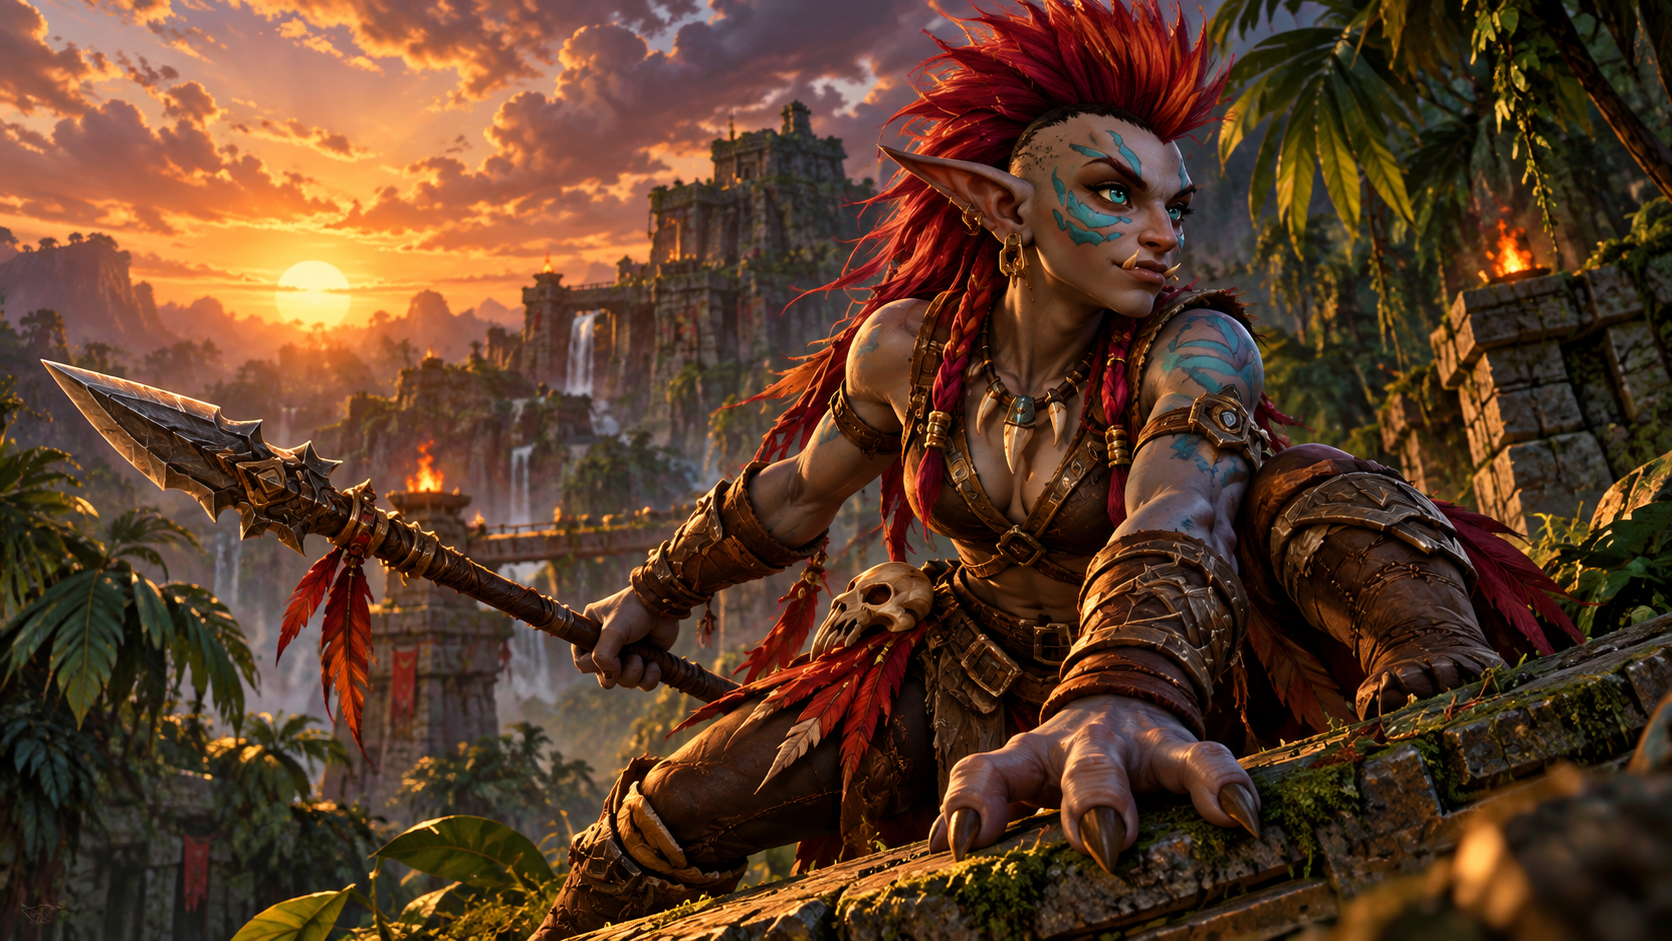
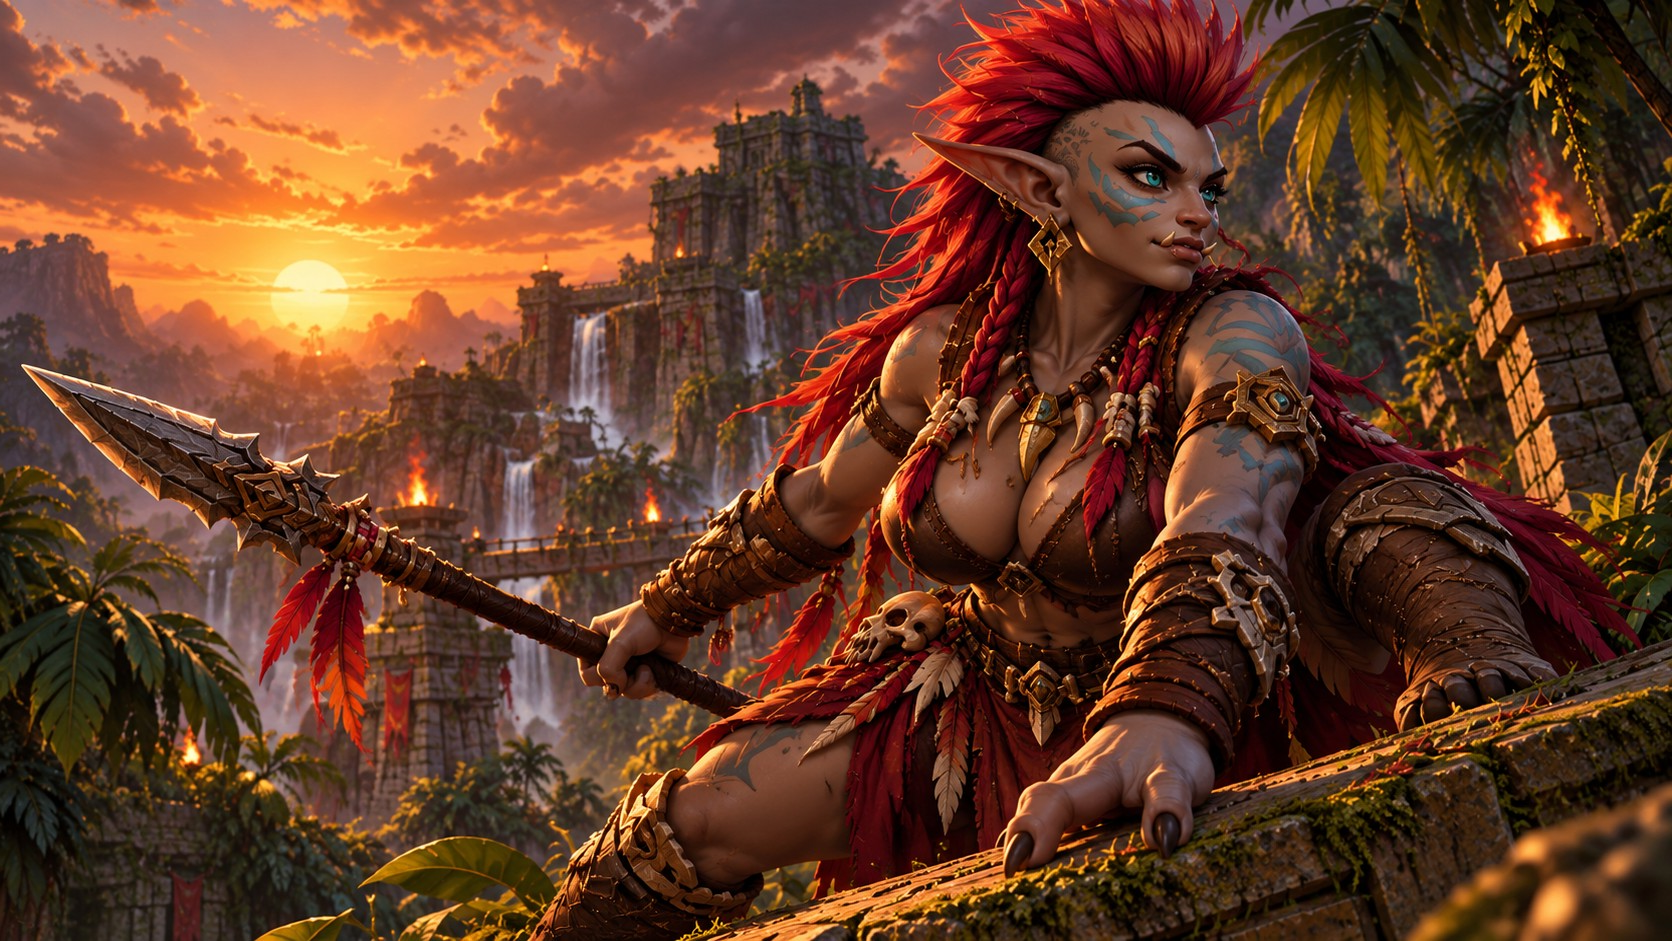
Tezanji Images Rework

diff --git a/STATUS.md b/STATUS.md
@@ -11,7 +11,7 @@ Die Website wird für Desktopfenster ab 1024 Pixeln Breite gestaltet. Der linke 
 - Der sichtbare Charaktername lautet websiteweit `Tez'anji`, einschließlich Auswahl, Beschreibung, Seitentitel, Alternativtext und sämtlicher Storypassagen. Technische Slugs und Dateipfade bleiben unverändert.
 - Vollbildauswahl mit fünf nebeneinander aufklappenden Charakterkarten. Aeva ist nur beim Einstieg aktiv; anschließend bestimmen Maus oder Tastatur die Auswahl, die beim Verlassen erhalten bleibt. Alle Figuren erhalten dieselbe aktive Breite von ungefähr der halben Ansicht.
 - Die Auswahl zeigt jeden Namen einmal und die Details links unten, mit feiner Akzentkante und individuellen Bildausschnitten. Die sichtbare große Überschrift und der zusätzliche Seitenbildhintergrund entfallen; die Hauptüberschrift für Screenreader und fünf Ersatzlinks ohne JavaScript bleiben erhalten.
-- Das vom Nutzer ersetzte Auswahlbild `tezanji_sel.png` bleibt unverändert; seine optimierten WebP-Dateien einschließlich Vorschaubild und Manifest wurden aktualisiert. Die Charakterseiten bleiben gegenüber dem vorigen Stand unverändert.
+- Die erneut vom Nutzer ersetzten Bilder `tezanji_1.png`, `tezanji_3.png` und `tezanji_sel.png` wurden in die optimierten WebP-Dateien und Galerie-Vorschaubilder übernommen; das Manifest ist aktualisiert. Die Originaldateien blieben bei der Erzeugung nachweislich unverändert, ebenso Code und Bildausschnitte.
 - Kapitelnavigation über dem Text, zusammenhängende abgedunkelte Lesezone und kompakte Musiksteuerung.
 - Galerie und Hinweise im normalen Seitenfluss, damit sie den Lesetext nicht überlagern.
 - Freiwilliger Musikstart ohne vorgeschalteten Dialog; die Audiodatei wird erst beim Start geladen.
@@ -20,12 +20,13 @@ Die Website wird für Desktopfenster ab 1024 Pixeln Breite gestaltet. Der linke 
 - Gemeinsame HTML-Vorlage und Seitengenerator für sechs Charakterseiten. Die 16 veröffentlichten Kapitel stehen bereits im HTML und sind ohne JavaScript lesbar; Brixxli bleibt eine vorbereitete, unveröffentlichte Seite.
 - Optimierte Bild- und Schriftdateien mit Manifest und Integritätsprüfung. Die ursprünglichen Textdaten und die vorgefundenen Originalbilder bleiben erhalten; bereits vorhandene Bildänderungen wurden nicht zurückgesetzt.
 
-Die optimierten Bild- und Schriftdateien umfassen im aktuellen Stand einschließlich Vorschaubildern 4.595.036 Bytes gegenüber 59.608.486 Bytes Originaldateien, etwa 92,3 % weniger. Das ist ein Vergleich des Assetbestands, keine Messung des Downloads einer einzelnen Seite.
+Die optimierten Bild- und Schriftdateien umfassen im aktuellen Stand einschließlich Vorschaubildern 4.606.200 Bytes gegenüber 60.056.185 Bytes Originaldateien, etwa 92,3 % weniger. Das ist ein Vergleich des Assetbestands, keine Messung des Downloads einer einzelnen Seite.
 
-Beim lokalen Startseitenabruf mit leerem Cache und 1440 Pixeln Fensterbreite wurden einschließlich HTML 1.230.176 Bytes übertragen, rund 1,23 MB gegenüber zuvor etwa 18,4 MB. Dieser Seitenabruf ist getrennt vom gesamten Assetbestand zu betrachten.
+Beim lokalen Startseitenabruf vor der erneuten Bildaktualisierung wurden mit leerem Cache und 1440 Pixeln Fensterbreite einschließlich HTML 1.230.176 Bytes übertragen, rund 1,23 MB gegenüber zuvor etwa 18,4 MB. Dieser frühere Messwert beschreibt nicht den aktuellen Bildstand und ist getrennt vom gesamten Assetbestand zu betrachten.
 
 ## Prüfstatus
 
+- Erneute Bildaktualisierung: Assetoptimierung und vollständige `--check`-Prüfung erfolgreich; SHA-256 aller Originalbilder vor und nach der Erzeugung identisch. Genau sechs Bildderivate und das Manifest wurden neu erzeugt, keine Schriften. Auswahl und betroffene Kapitel bei 1024 und 1440 Pixeln nach abgeschlossener Überblendung visuell geprüft; alle drei Galerievorschaubilder und die Original-Großansicht erfolgreich geladen, keine HTTP- oder JavaScript-Fehler. Die folgenden Regressionstestergebnisse beziehen sich auf die letzte Codeänderung; für den reinen Bildtausch wurde die Suite nicht erneut ausgeführt.
 - Namenskorrektur `Tez'anji`: Seitengenerator und JavaScript-Syntaxprüfung erfolgreich; alle 15 Regressionstests in 10,620 Sekunden bestanden. Assetprüfung einschließlich benötigter Schriftzeichen und `git diff --check` erfolgreich; keine alten sichtbaren Namensvorkommen verbleiben.
 - `python -B -m unittest discover -s tests -v`: 15 von 15 Tests bestanden, Laufzeit 10,918 Sekunden; keine JavaScript-Laufzeitfehler im Browser. Vier neue Tests decken die überarbeitete Auswahl ab.
 - Automatisiert geprüft: Generierung ohne Überschreiben der Seiten, sämtliche veröffentlichten Kapitel ohne JavaScript, Startseite ohne JavaScript, Brixxli-Hinweise, lokale Assets, Kapiteladressen und Browserverlauf, Dialogfokus, verzögertes Laden von Audio und Galeriebildern sowie Bildladefehler und konkurrierende Bildwechsel. Die Desktopprüfung umfasst fünf veröffentlichte Charaktere bei jeweils vier Fensterbreiten.
